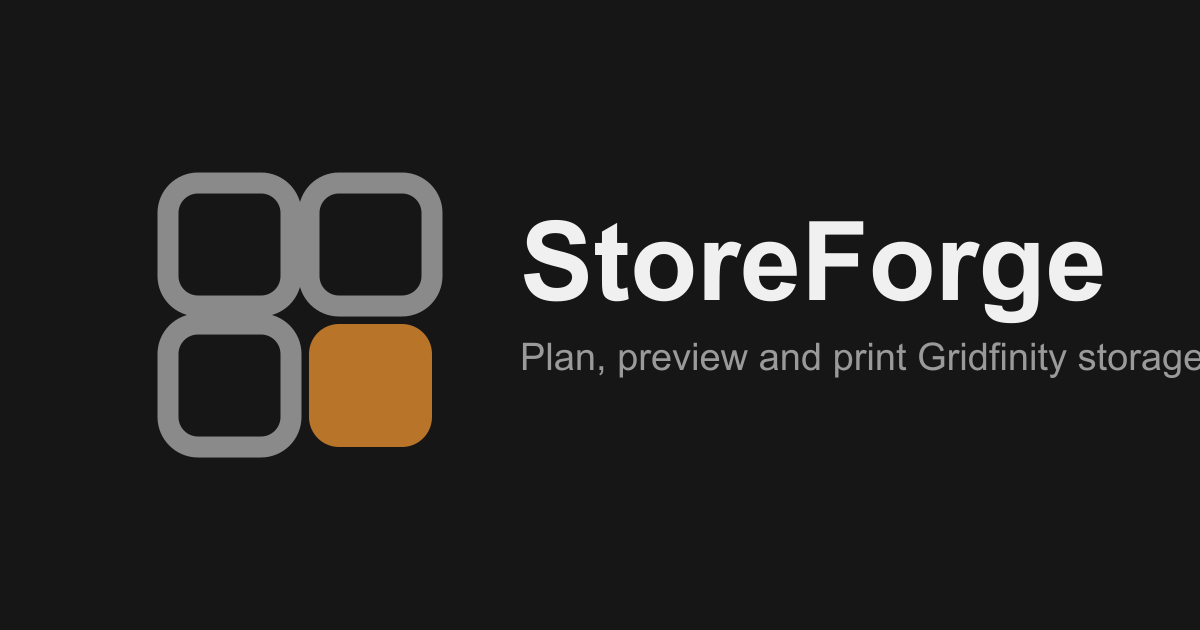
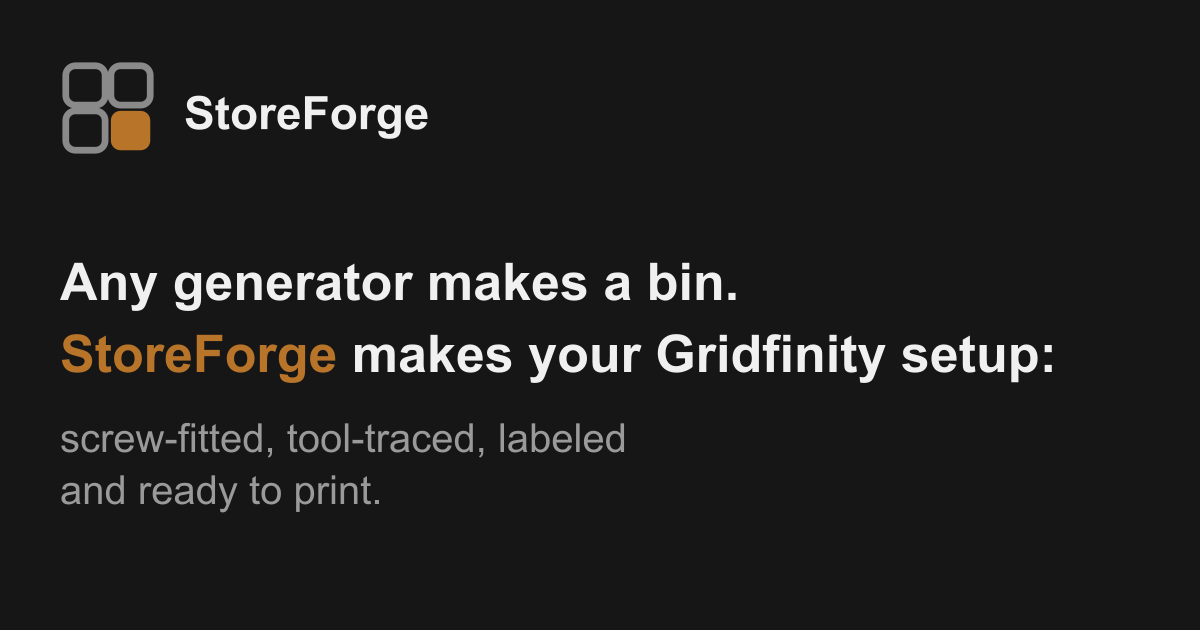
Put the catchphrase on the social card and in the page descriptions.

Changed region(s): [[0.0308, 0.2714, 1.0, 0.8143], [0.0308, 0.0905, 0.1542, 0.2413], [0.1542, 0.1508, 0.37, 0.2413]]

diff --git a/web/index.html b/web/index.html
@@ -7,7 +7,7 @@
     <title>StoreForge: Gridfinity bin generator and print planner</title>
     <meta
       name="description"
-      content="Plan a print run of Gridfinity storage bins: queue bins by grid size, label, and hardware icon, preview them in 3D, and export STL per bin or a full build plate as 3MF for Orca Slicer."
+      content="Any generator makes a bin. StoreForge makes your Gridfinity setup: screw-fitted, tool-traced, labeled and ready to print."
     />
     <link rel="canonical" href="https://storeforge.jaak0b.at/" />
     <meta name="theme-color" content="#101010" />
@@ -21,7 +21,7 @@
     />
     <meta
       property="og:description"
-      content="Plan a print run of Gridfinity storage bins: queue bins by grid size, label, and hardware icon, preview them in 3D, and export STL per bin or a full build plate as 3MF for Orca Slicer."
+      content="Any generator makes a bin. StoreForge makes your Gridfinity setup: screw-fitted, tool-traced, labeled and ready to print."
     />
     <meta property="og:image" content="https://storeforge.jaak0b.at/og-image.png" />
     <meta property="og:image:width" content="1200" />
@@ -34,7 +34,7 @@
     />
     <meta
       name="twitter:description"
-      content="Plan a print run of Gridfinity storage bins: queue bins by grid size, label, and hardware icon, preview them in 3D, and export STL per bin or a full build plate as 3MF for Orca Slicer."
+      content="Any generator makes a bin. StoreForge makes your Gridfinity setup: screw-fitted, tool-traced, labeled and ready to print."
     />
     <meta name="twitter:image" content="https://storeforge.jaak0b.at/og-image.png" />
 
@@ -44,7 +44,7 @@
         "@type": "WebApplication",
         "name": "StoreForge",
         "url": "https://storeforge.jaak0b.at/",
-        "description": "Plan a print run of Gridfinity storage bins: queue bins by grid size, label, and hardware icon, preview them in 3D, and export STL per bin or a full build plate as 3MF for Orca Slicer.",
+        "description": "Any generator makes a bin. StoreForge makes your Gridfinity setup: screw-fitted, tool-traced, labeled and ready to print.",
         "applicationCategory": "UtilitiesApplication",
         "operatingSystem": "Web",
         "offers": {